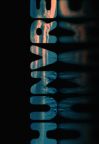
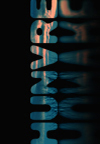
bando bas et bando milieu

diff --git a/src/view/InfoUtilisateur.java b/src/view/InfoUtilisateur.java
@@ -1,0 +1,5 @@
+package view;
+
+public class InfoUtilisateur {
+
+}